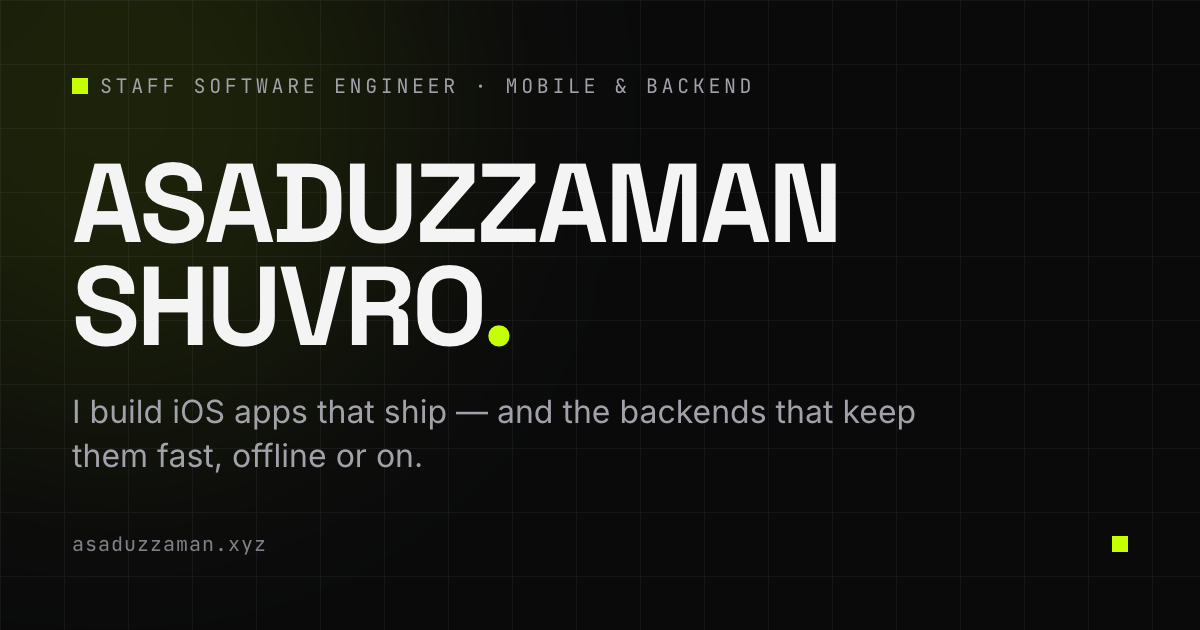
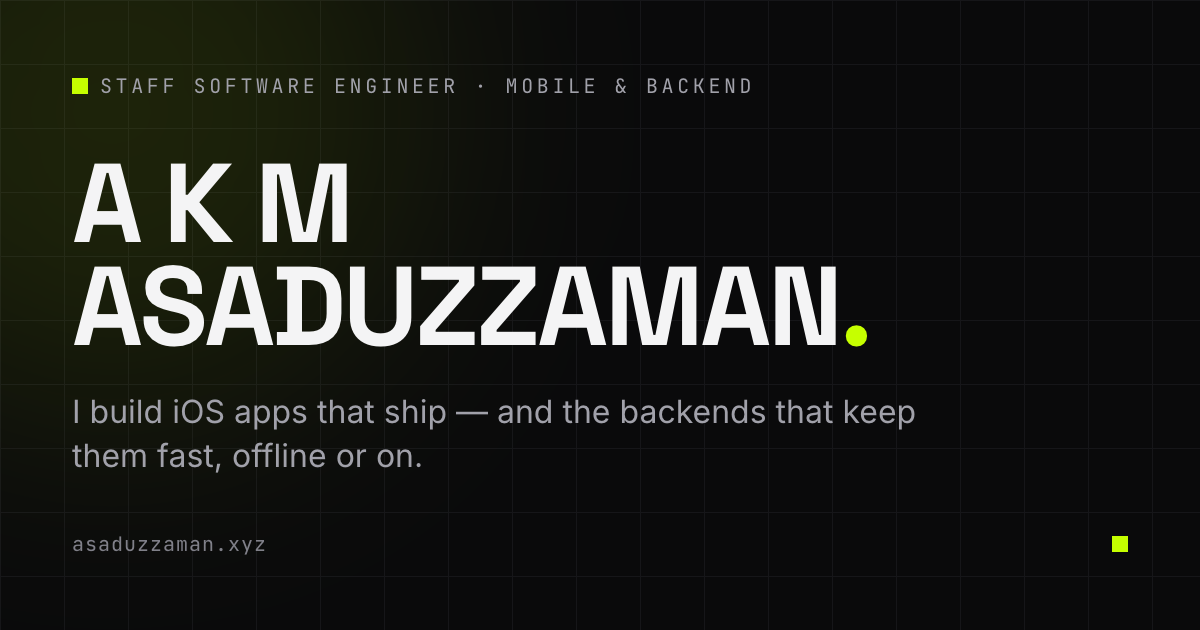
Use the name A K M Asaduzzaman and the new LinkedIn URL

Changed region(s): [[0.0617, 0.4222, 0.74, 0.573], [0.1233, 0.2413, 0.7092, 0.3921]]

diff --git a/src/data/profile.ts b/src/data/profile.ts
@@ -1,7 +1,7 @@
 // Single source of truth for personal info.
 
 export const profile = {
-  name: 'Asaduzzaman Shuvro',
+  name: 'A K M Asaduzzaman',
   handle: 'shuvro', // short id used in brutalist mono labels
   role: 'Staff Software Engineer',
   tagline: 'Mobile & Backend',
@@ -11,11 +11,11 @@ export const profile = {
     'I build iOS apps that ship — and the backends that keep them fast, offline or on.',
 
   // Default <title> — role plus the stack people search for.
-  title: 'Asaduzzaman Shuvro — Staff Software Engineer (iOS & Backend)',
+  title: 'A K M Asaduzzaman — Staff Software Engineer (iOS & Backend)',
 
   // Default <meta name="description"> (~150 chars) — the pitch is too short for search snippets.
   metaDescription:
-    'Asaduzzaman Shuvro, Staff Software Engineer in Dhaka. Leads iOS (Swift, SwiftUI) and backend (Java, Spring) teams at Cefalo for NHST Media Group apps.',
+    'A K M Asaduzzaman, Staff Software Engineer in Dhaka. Leads iOS (Swift, SwiftUI) and backend (Java, Spring) teams at Cefalo for NHST Media Group apps.',
 
   // Slightly longer bio for the About section. Punchy, first-person.
   bio: [
@@ -34,7 +34,7 @@ export const profile = {
   availability: 'Open to interesting problems',
 
   email: 'asaduzzaman.duet@gmail.com',
-  linkedin: 'https://www.linkedin.com/in/asaduzzaman-shuvro/',
+  linkedin: 'https://www.linkedin.com/in/asaduzzamanshuvro/',
   github: 'https://github.com/asaduzzaman-shuvro',
   // CV lives in /public — a redacted copy of the resume (no phone/address).
   cv: '/cv.pdf',

diff --git a/CLAUDE.md b/CLAUDE.md
@@ -4,7 +4,7 @@ This file provides guidance to Claude Code (claude.ai/code) when working with co
 
 ## What this is
 
-Personal portfolio + blog for Asaduzzaman Shuvro (Staff Software Engineer, Mobile & Backend),
+Personal portfolio + blog for A K M Asaduzzaman (Staff Software Engineer, Mobile & Backend),
 built with Astro + Tailwind CSS v4, statically generated and deployed to GitHub Pages.
 
 ## Commands

diff --git a/README.md b/README.md
@@ -1,6 +1,6 @@
 # Portfolio
 
-Personal portfolio and blog for **Asaduzzaman Shuvro** — Staff Software Engineer, Mobile & Backend.
+Personal portfolio and blog for **A K M Asaduzzaman** — Staff Software Engineer, Mobile & Backend.
 Built with [Astro](https://astro.build) + [Tailwind CSS](https://tailwindcss.com), deployed
 to GitHub Pages.
 
